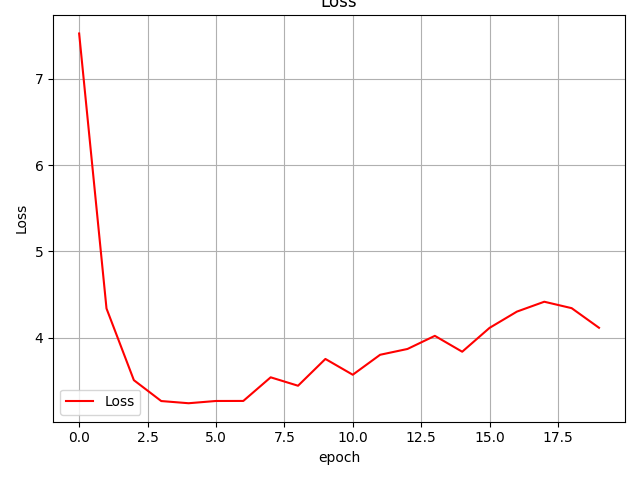
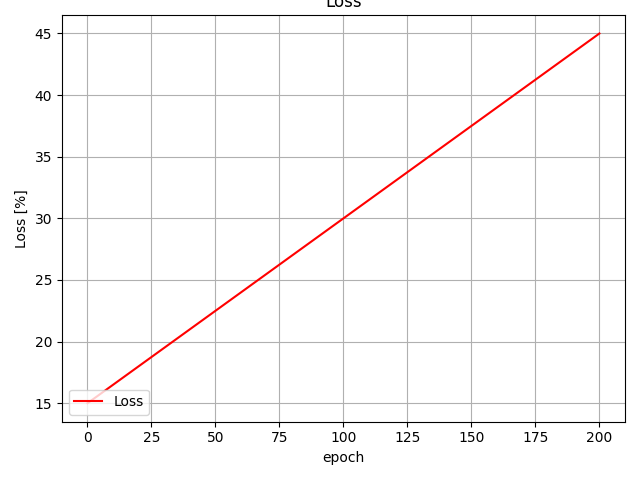
update

diff --git a/src/main.py b/src/main.py
@@ -14,12 +14,13 @@ from utils import NestedNamespace, compute_chunk_info
 import matplotlib.pyplot as plt
 
 
-def PlotAccuracy(Accuracy):
-    print(Accuracy)
-    len_Accuracy = range(len(Accuracy))
-    plt.plot(len_Accuracy, Accuracy, label='Accuracy', color='green')
+def PlotAccuracy(Accuracy, verbose_every):
+    x = [x*100 for x in range(0, len(Accuracy)
+                              * verbose_every, verbose_every)]
+    y = [y*100 for y in Accuracy]
+    plt.plot(x, y, label='Accuracy', color='green')
     plt.xlabel('epoch')
-    plt.ylabel('Accuracy')
+    plt.ylabel('Accuracy [%]')
     plt.legend(loc='lower left')
     plt.grid(True)
     plt.tight_layout()
@@ -30,12 +31,13 @@ def PlotAccuracy(Accuracy):
     plt.close()
 
 
-def PlotLoss(loss):
-    print(loss)
-    len_loss = range(len(loss))
-    plt.plot(len_loss, loss, label='Loss', color='red')
+def PlotLoss(loss, verbose_every):
+    x = [x for x in range(0,
+                          len(loss)*verbose_every, verbose_every)]
+    y = [y*100 for y in loss]
+    plt.plot(x, y, label='Loss', color='red')
     plt.xlabel('epoch')
-    plt.ylabel('Loss')
+    plt.ylabel('Loss [%]')
     plt.legend(loc='lower left')
     plt.grid(True)
     plt.tight_layout()
@@ -52,6 +54,7 @@ def compute_accuracy(logits: torch.Tensor, labels: tp.Union[torch.Tensor, int]) 
 
 
 def main(params: NestedNamespace):
+    # PlotLoss([0.15, 0.3, 0.45], params.verbose_every)
     TestAcc = []
     LossPlot = []
     chunk_len, chunk_shift = compute_chunk_info(params)
@@ -120,8 +123,13 @@ def main(params: NestedNamespace):
                             ), 'optimizer_state_dict': optim.state_dict(), 'epoch': i},
                             os.path.join(params.save_path, params.model.type+'.pt'))
                         print("saved model!! ")
-    PlotAccuracy(TestAcc)
-    PlotLoss(LossPlot)
+    PlotAccuracy(TestAcc, params.verbose_every)
+    PlotLoss(LossPlot, params.verbose_every)
+    print(TestAcc)
+    print(LossPlot)
+    f = open("TestAccLoss.txt", "w")
+    f.write(f"test Acc: \n {TestAcc}\n")
+    f.write(f"test Loss: \n {LossPlot}")
 
 
 if __name__ == "__main__":

diff --git a/README.md b/README.md
@@ -1,2 +1,2 @@
-# finalProjectSincNet
-finalProjectSincNet in Tau university 
+# final_project
+SincNet
